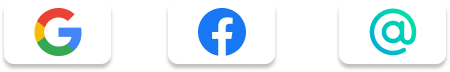
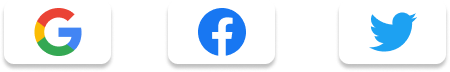
finished

Changed region(s): [[0.8089, 0.1111, 0.9333, 0.7778]]

diff --git a/css/style.css b/css/style.css
@@ -7,7 +7,7 @@
     position: relative;
     float: right;
     right: 282px;
-    bottom: 530px;
+    bottom: 540px;
 }
 .forgot {
     font-family: "poppins", sans-serif;
@@ -17,7 +17,7 @@
     opacity: .4;
     position: relative;
     float: right;
-    bottom: 410px;
+    bottom: 420px;
     left: 12px;
     font-size: 12px;
     text-decoration-line: underline;
@@ -47,7 +47,7 @@
     position: relative;
     float: right;
     left: 15px;
-    margin-top: -350px;
+    margin-top: -360px;
 }
 hr {
     width: 355%;
@@ -69,12 +69,24 @@ hr {
     float: right;
     left: 18px;
     font-size: 12px;
-    bottom: 278px;
+    bottom: 288px;
 }
 .socials {
     position: relative;
     float: right;
     left: 393px;
-    bottom: 230px;
+    bottom: 240px;
     width: 20%;
+}
+.email {
+    font-family: "poppins", sans-serif;
+    font-weight: 400;
+    font-style: normal;
+    color: gray;
+    opacity: .6;
+    position: relative;
+    float: right;
+    left: 590px;
+    font-size: 12px;
+    bottom: 170px;
 }

diff --git a/index.html b/index.html
@@ -35,9 +35,12 @@
     <div class="continue">
       or continue with 
     </div>
-    <hr style="border: none; width: 6.5%;  position: relative; float: right; bottom: 278px; left: 10px; color: gray; opacity: .2"> 
-    <hr style="border: none; width: 6.5%; position: relative; float: right; bottom: 278px; left: 307px; color: gray; opacity: .2">
+    <hr style="border: none; width: 6.5%;  position: relative; float: right; bottom: 288px; left: 10px; color: gray; opacity: .2"> 
+    <hr style="border: none; width: 6.5%; position: relative; float: right; bottom: 288px; left: 307px; color: gray; opacity: .2">
     <img class="socials" src="images/socials.png">
+    <div class="email">
+      sign up with email
+    </div>
   </div>
 </body>
 </html>
